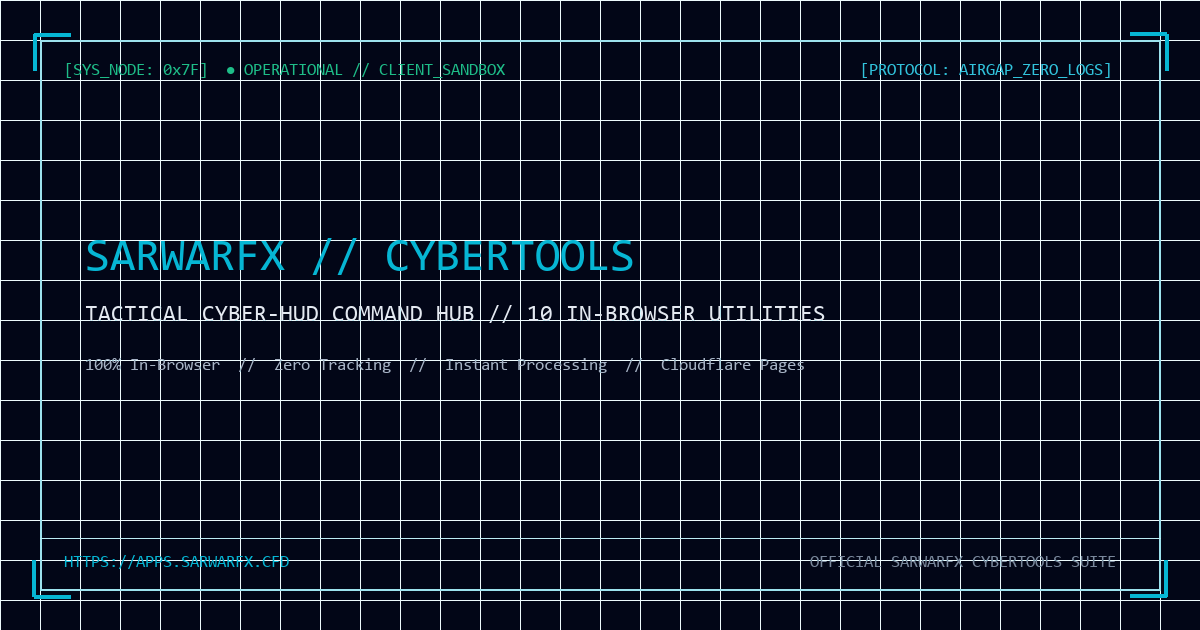
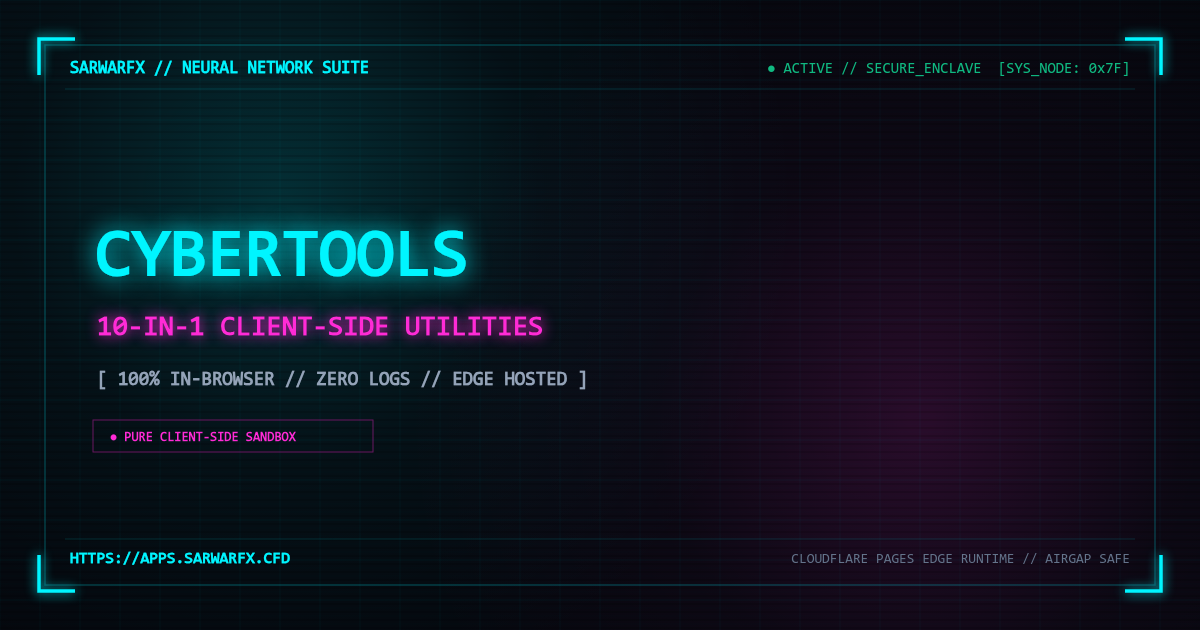
feat(media): programmatically generate native 1200x630 og-cover.png for all apps

Changed region(s): [[0.0, 0.0302, 0.9867, 0.9651]]

diff --git a/generate-og.js b/generate-og.js
@@ -1,0 +1,297 @@
+/**
+ * generate-og.js
+ * Programmatically generates 1200x630 Cyberpunk OpenGraph banner images
+ * with deep obsidian background, cyan/pink radial gradients, CRT gridlines,
+ * HUD corner brackets, glowing scanlines, and tactical telemetry.
+ */
+
+const fs = require('fs');
+const path = require('path');
+
+// Resolve @napi-rs/canvas from local or scratch directory
+let createCanvas, GlobalFonts;
+try {
+  const canvasPkg = require('@napi-rs/canvas');
+  createCanvas = canvasPkg.createCanvas;
+  GlobalFonts = canvasPkg.GlobalFonts;
+} catch (e) {
+  const scratchPath = 'C:/Users/sarwa/.gemini/antigravity/brain/93345f11-2fb3-41b9-ac80-b24c84088119/scratch/node_modules/@napi-rs/canvas';
+  const canvasPkg = require(scratchPath);
+  createCanvas = canvasPkg.createCanvas;
+  GlobalFonts = canvasPkg.GlobalFonts;
+}
+
+// Register fonts if available
+if (GlobalFonts && GlobalFonts.registerFromPath) {
+  if (fs.existsSync('C:/Windows/Fonts/consola.ttf')) {
+    GlobalFonts.registerFromPath('C:/Windows/Fonts/consola.ttf', 'CyberMono');
+  }
+}
+
+const APPS = [
+  {
+    dir: '',
+    subdomain: 'apps',
+    title: 'CYBERTOOLS',
+    subtitle: '10-IN-1 CLIENT-SIDE UTILITIES',
+    telemetry: '[ 100% IN-BROWSER // ZERO LOGS // EDGE HOSTED ]'
+  },
+  {
+    dir: 'calc',
+    subdomain: 'calc',
+    title: 'CYBERTOOLS // CALC',
+    subtitle: 'BANDWIDTH & TELEMETRY CALCULATOR',
+    telemetry: '[ 100% IN-BROWSER // ZERO LOGS // EDGE HOSTED ]'
+  },
+  {
+    dir: 'clock',
+    subdomain: 'clock',
+    title: 'CYBERTOOLS // CLOCK',
+    subtitle: 'ORBITAL WORLD CHRONOMETER & SCRUBBER',
+    telemetry: '[ 100% IN-BROWSER // ZERO LOGS // EDGE HOSTED ]'
+  },
+  {
+    dir: 'clean',
+    subdomain: 'clean',
+    title: 'CYBERTOOLS // CLEAN',
+    subtitle: 'TEXT STREAM PURIFIER & SANITIZER',
+    telemetry: '[ 100% IN-BROWSER // ZERO LOGS // EDGE HOSTED ]'
+  },
+  {
+    dir: 'base64',
+    subdomain: 'base64',
+    title: 'CYBERTOOLS // BASE64',
+    subtitle: 'CRYPTOGRAPHIC CIPHER CONVERTER & DATA URI',
+    telemetry: '[ 100% IN-BROWSER // ZERO LOGS // EDGE HOSTED ]'
+  },
+  {
+    dir: 'compress',
+    subdomain: 'compress',
+    title: 'CYBERTOOLS // COMPRESS',
+    subtitle: 'PIXEL MATRIX IMAGE OPTIMIZER & WEBP',
+    telemetry: '[ 100% IN-BROWSER // ZERO LOGS // EDGE HOSTED ]'
+  },
+  {
+    dir: 'diff',
+    subdomain: 'diff',
+    title: 'CYBERTOOLS // DIFF',
+    subtitle: 'CODE DIFFERENCE & CHECKSUM ANALYZER',
+    telemetry: '[ 100% IN-BROWSER // ZERO LOGS // EDGE HOSTED ]'
+  },
+  {
+    dir: 'ip',
+    subdomain: 'ip',
+    title: 'CYBERTOOLS // IP',
+    subtitle: 'SIGNAL IP INTELLIGENCE & RADAR HUD',
+    telemetry: '[ 100% IN-BROWSER // ZERO LOGS // EDGE HOSTED ]'
+  },
+  {
+    dir: 'json',
+    subdomain: 'json',
+    title: 'CYBERTOOLS // JSON',
+    subtitle: 'DATA PAYLOAD DEBUGGER & TREE INSPECTOR',
+    telemetry: '[ 100% IN-BROWSER // ZERO LOGS // EDGE HOSTED ]'
+  },
+  {
+    dir: 'qr',
+    subdomain: 'qr',
+    title: 'CYBERTOOLS // QR',
+    subtitle: 'OPTICAL MATRIX GENERATOR & LIVE SCANNER',
+    telemetry: '[ 100% IN-BROWSER // ZERO LOGS // EDGE HOSTED ]'
+  },
+  {
+    dir: 'speed',
+    subdomain: 'speed',
+    title: 'CYBERTOOLS // SPEED',
+    subtitle: 'TELEMETRY NETWORK BENCHMARK & LATENCY',
+    telemetry: '[ 100% IN-BROWSER // ZERO LOGS // EDGE HOSTED ]'
+  }
+];
+
+function generateBanner(app) {
+  const width = 1200;
+  const height = 630;
+  const canvas = createCanvas(width, height);
+  const ctx = canvas.getContext('2d');
+
+  // 1. Base Obsidian Background #05070d
+  ctx.fillStyle = '#05070d';
+  ctx.fillRect(0, 0, width, height);
+
+  // 2. Subtle Cyan Radial Gradient (Top-Left / Center)
+  const cyanGrad = ctx.createRadialGradient(280, 200, 10, 280, 200, 520);
+  cyanGrad.addColorStop(0, 'rgba(0, 245, 255, 0.16)');
+  cyanGrad.addColorStop(0.5, 'rgba(0, 245, 255, 0.04)');
+  cyanGrad.addColorStop(1, 'rgba(0, 245, 255, 0)');
+  ctx.fillStyle = cyanGrad;
+  ctx.fillRect(0, 0, width, height);
+
+  // 3. Subtle Neon-Pink Radial Gradient (Bottom-Right / Center)
+  const pinkGrad = ctx.createRadialGradient(920, 420, 10, 920, 420, 520);
+  pinkGrad.addColorStop(0, 'rgba(255, 43, 214, 0.14)');
+  pinkGrad.addColorStop(0.5, 'rgba(255, 43, 214, 0.03)');
+  pinkGrad.addColorStop(1, 'rgba(255, 43, 214, 0)');
+  ctx.fillStyle = pinkGrad;
+  ctx.fillRect(0, 0, width, height);
+
+  // 4. Subtle Dark Grid Lines
+  ctx.lineWidth = 1;
+  ctx.strokeStyle = 'rgba(0, 245, 255, 0.04)';
+  const gridSize = 40;
+  for (let x = 0; x < width; x += gridSize) {
+    ctx.beginPath();
+    ctx.moveTo(x, 0);
+    ctx.lineTo(x, height);
+    ctx.stroke();
+  }
+  for (let y = 0; y < height; y += gridSize) {
+    ctx.beginPath();
+    ctx.moveTo(0, y);
+    ctx.lineTo(width, y);
+    ctx.stroke();
+  }
+
+  // 5. Glowing Scanlines
+  ctx.lineWidth = 1;
+  for (let y = 0; y < height; y += 4) {
+    ctx.strokeStyle = (y % 8 === 0) ? 'rgba(0, 245, 255, 0.015)' : 'rgba(0, 0, 0, 0.25)';
+    ctx.beginPath();
+    ctx.moveTo(0, y);
+    ctx.lineTo(width, y);
+    ctx.stroke();
+  }
+
+  // 6. Outer HUD Tactical Framing
+  const margin = 45;
+  ctx.strokeStyle = 'rgba(0, 245, 255, 0.22)';
+  ctx.lineWidth = 1.5;
+  ctx.strokeRect(margin, margin, width - margin * 2, height - margin * 2);
+
+  // 7. Glowing Tactical Corner Brackets
+  ctx.strokeStyle = '#00f5ff';
+  ctx.lineWidth = 3.5;
+  ctx.shadowColor = '#00f5ff';
+  ctx.shadowBlur = 12;
+
+  const bracket = 36;
+  const offset = 6;
+  const left = margin - offset;
+  const top = margin - offset;
+  const right = width - margin + offset;
+  const bottom = height - margin + offset;
+
+  // Top-Left
+  ctx.beginPath();
+  ctx.moveTo(left + bracket, top);
+  ctx.lineTo(left, top);
+  ctx.lineTo(left, top + bracket);
+  ctx.stroke();
+
+  // Top-Right
+  ctx.beginPath();
+  ctx.moveTo(right - bracket, top);
+  ctx.lineTo(right, top);
+  ctx.lineTo(right, top + bracket);
+  ctx.stroke();
+
+  // Bottom-Left
+  ctx.beginPath();
+  ctx.moveTo(left, bottom - bracket);
+  ctx.lineTo(left, bottom);
+  ctx.lineTo(left + bracket, bottom);
+  ctx.stroke();
+
+  // Bottom-Right
+  ctx.beginPath();
+  ctx.moveTo(right - bracket, bottom);
+  ctx.lineTo(right, bottom);
+  ctx.lineTo(right, bottom - bracket);
+  ctx.stroke();
+
+  // Reset shadow for crisp text
+  ctx.shadowColor = 'transparent';
+  ctx.shadowBlur = 0;
+
+  // 8. Status Header ("SARWARFX // NEURAL NETWORK SUITE")
+  const monoFont = 'CyberMono, Consolas, "Courier New", monospace';
+  ctx.font = `600 17px ${monoFont}`;
+  ctx.fillStyle = '#00f5ff';
+  ctx.fillText('SARWARFX // NEURAL NETWORK SUITE', margin + 25, margin + 28);
+
+  ctx.font = `500 15px ${monoFont}`;
+  ctx.fillStyle = '#10b981';
+  ctx.textAlign = 'right';
+  ctx.fillText('● ACTIVE // SECURE_ENCLAVE  [SYS_NODE: 0x7F]', width - margin - 25, margin + 28);
+  ctx.textAlign = 'left';
+
+  // Subtle separator line under header
+  ctx.strokeStyle = 'rgba(0, 245, 255, 0.15)';
+  ctx.lineWidth = 1;
+  ctx.beginPath();
+  ctx.moveTo(margin + 20, margin + 44);
+  ctx.lineTo(width - margin - 20, margin + 44);
+  ctx.stroke();
+
+  // 9. Center Typography
+  // Primary Title: "CYBERTOOLS" (Large, glowing cyan #00f5ff)
+  ctx.font = `800 68px ${monoFont}`;
+  ctx.fillStyle = '#00f5ff';
+  ctx.shadowColor = '#00f5ff';
+  ctx.shadowBlur = 24;
+  ctx.fillText(app.title, margin + 50, 275);
+
+  // Subtitle: "10-IN-1 CLIENT-SIDE UTILITIES" (Pink #ff2bd6)
+  ctx.font = `700 28px ${monoFont}`;
+  ctx.fillStyle = '#ff2bd6';
+  ctx.shadowColor = '#ff2bd6';
+  ctx.shadowBlur = 14;
+  ctx.fillText(app.subtitle, margin + 52, 335);
+
+  // Telemetry Tag: "[ 100% IN-BROWSER // ZERO LOGS // EDGE HOSTED ]"
+  ctx.font = `600 19px ${monoFont}`;
+  ctx.fillStyle = '#94a3b8';
+  ctx.shadowColor = 'transparent';
+  ctx.shadowBlur = 0;
+  ctx.fillText(app.telemetry, margin + 52, 385);
+
+  // Tactical accent pill
+  ctx.strokeStyle = 'rgba(255, 43, 214, 0.4)';
+  ctx.lineWidth = 1;
+  ctx.strokeRect(margin + 48, 420, 280, 32);
+  ctx.font = `600 13px ${monoFont}`;
+  ctx.fillStyle = '#ff2bd6';
+  ctx.fillText('● PURE CLIENT-SIDE SANDBOX', margin + 65, 441);
+
+  // 10. Footer Section
+  ctx.strokeStyle = 'rgba(0, 245, 255, 0.15)';
+  ctx.beginPath();
+  ctx.moveTo(margin + 20, height - margin - 46);
+  ctx.lineTo(width - margin - 20, height - margin - 46);
+  ctx.stroke();
+
+  ctx.font = `600 16px ${monoFont}`;
+  ctx.fillStyle = '#00f5ff';
+  ctx.fillText(`HTTPS://${app.subdomain.toUpperCase()}.SARWARFX.CFD`, margin + 25, height - margin - 22);
+
+  ctx.font = `500 14px ${monoFont}`;
+  ctx.fillStyle = '#64748b';
+  ctx.textAlign = 'right';
+  ctx.fillText('CLOUDFLARE PAGES EDGE RUNTIME // AIRGAP SAFE', width - margin - 25, height - margin - 22);
+  ctx.textAlign = 'left';
+
+  return canvas.toBuffer('image/png');
+}
+
+// Generate for each directory
+console.log('Generating 1200x630 Cyberpunk OpenGraph banner images...');
+const baseDir = path.resolve(__dirname);
+
+APPS.forEach(app => {
+  const targetDir = app.dir ? path.join(baseDir, app.dir) : baseDir;
+  const outPath = path.join(targetDir, 'og-cover.png');
+  const buffer = generateBanner(app);
+  fs.writeFileSync(outPath, buffer);
+  console.log(`Generated: ${outPath} (${buffer.length} bytes)`);
+});
+
+console.log('All 11 OpenGraph banners generated successfully!');
